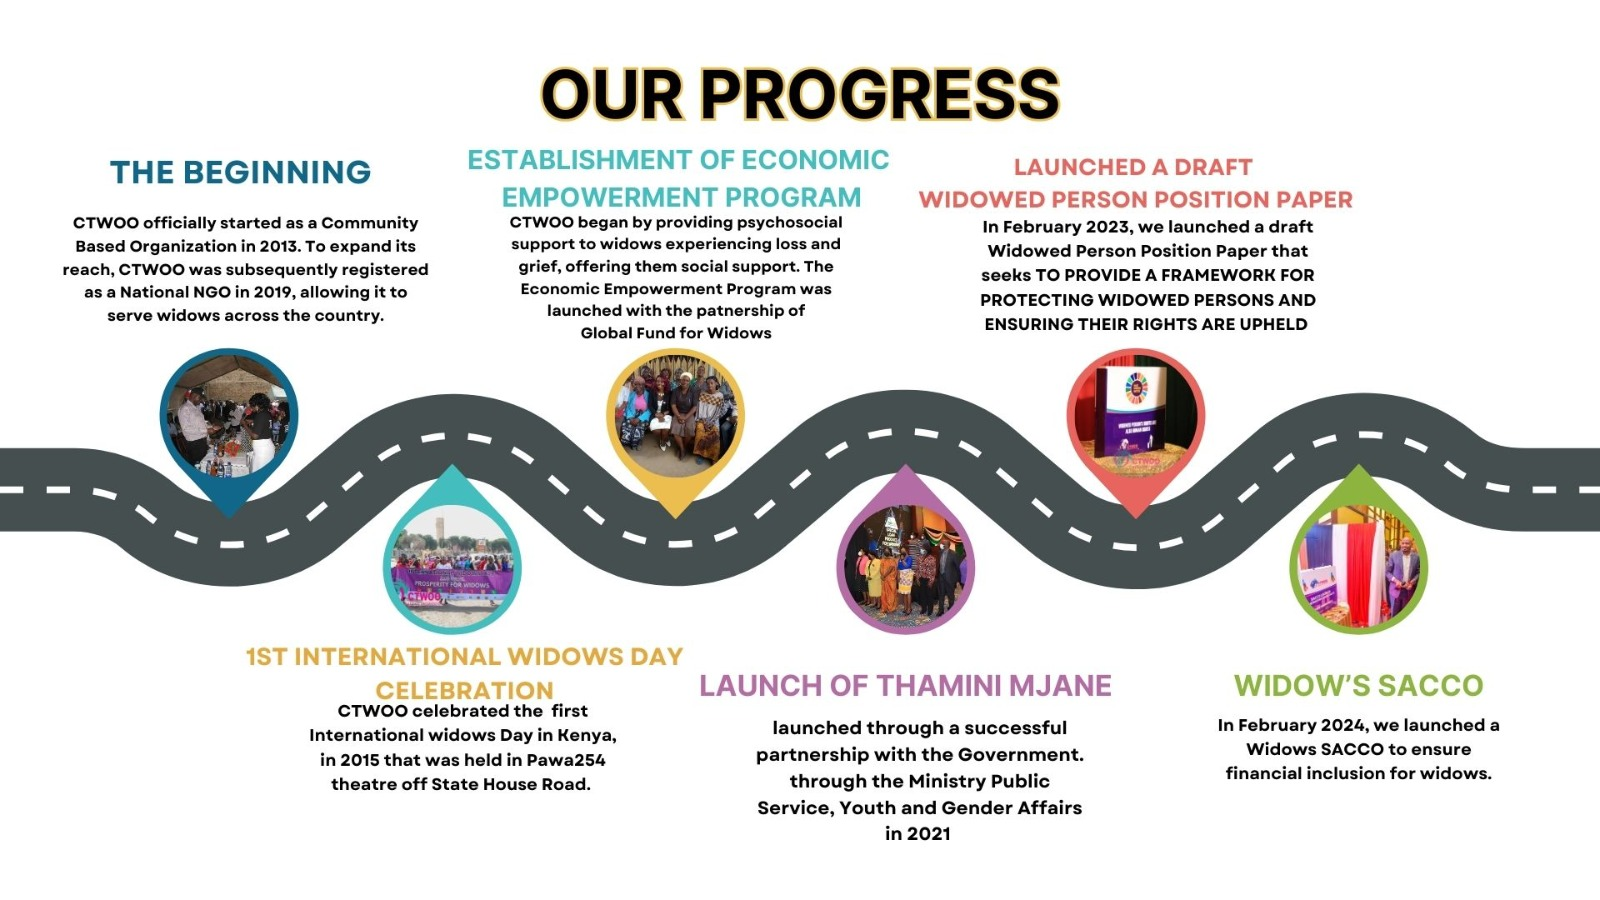
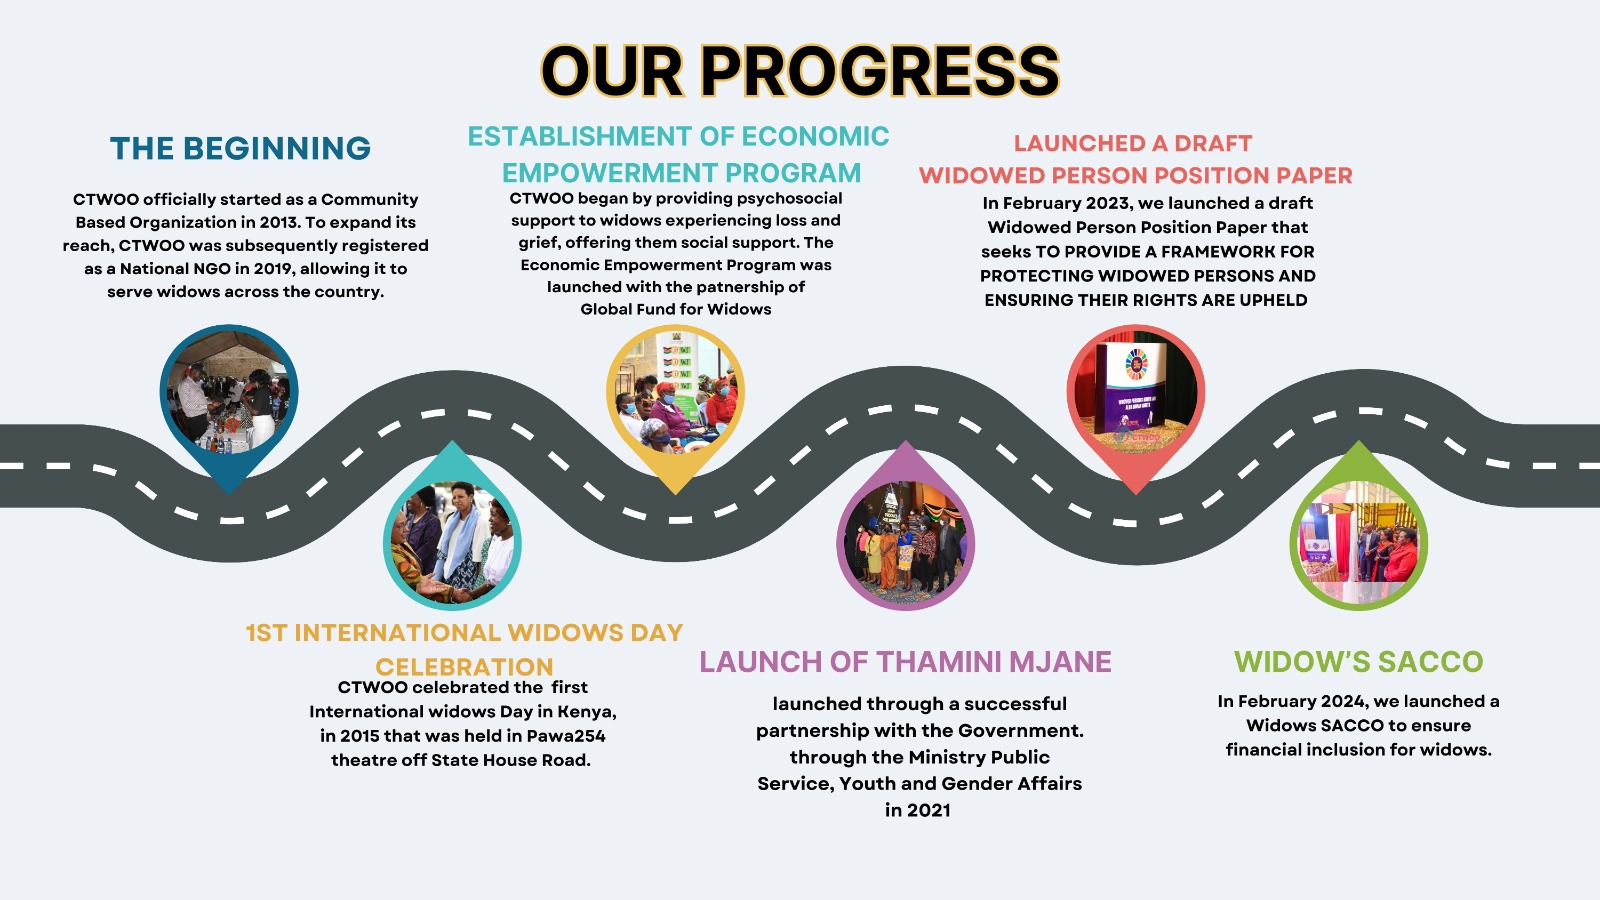
version 1.3 done

Changed region(s): [[0.0, 0.0311, 1.0, 0.9333]]

diff --git a/src/pages/about/screens/ourBoard/OurBoard.js b/src/pages/about/screens/ourBoard/OurBoard.js
@@ -7,6 +7,8 @@ import nkatha from "../../../../assets/img/board/nkatha.jpeg";
 import raphael from "../../../../assets/img/board/raphael.jpeg";
 import peter from "../../../../assets/img/board/peter.jpeg";
 import rashid from "../../../../assets/img/board/rashid.jpeg";
+import richard from "../../../../assets/img/board/richard.jpeg";
+import josphine from "../../../../assets/img/board/josphine.jpeg";
 import EastIcon from "@mui/icons-material/East";
 import KeyboardBackspaceIcon from "@mui/icons-material/KeyboardBackspace";
 
@@ -51,10 +53,24 @@ export default function OurBoard() {
     },
     {
       img: raphael,
-      name: "Raphael Okwama ",
+      name: "Raphael Okwama",
       role: "BOARD MEMBER",
       profile:
         "Create visually compelling designs that effectively convey messages and align with client or project requirements.",
+    },
+    {
+      img: richard,
+      name: "Richard Kuria Wamugu",
+      role: "BOARD MEMBER",
+      profile:
+        "Results-oriented Business Banking Manager with over 10 years of experience in driving business growth, managing customer relationships, and leading teams, specializing in SME and Personal Banking. Proven track record of exceeding targets, optimizing operations, ensuring compliance, and enhancing financial performance while delivering exceptional customer service..",
+    },
+    {
+      img: josphine,
+      name: "Ms. Josphine Maina",
+      role: "BOARD MEMBER",
+      profile:
+        "A driven Food Science and Nutrition graduate with experience in both the financial sector and community mentorship. Josphine Maina combines strong financial literacy with a passion for empowering individuals through her role at Equity Group Foundation, contributing to societal growth.",
     },
   ];
 

diff --git a/src/pages/home/sections/ourProgress/OurProgress.css b/src/pages/home/sections/ourProgress/OurProgress.css
@@ -1,3 +1,8 @@
+.our-progress {
+  background-color: #eff2f6;
+  padding-top: 14vh;
+  padding-bottom: 5vh;
+}
 .our-progress .container {
   background-image: url(../../../../assets/img/progress.jpeg);
   height: 100vh;
@@ -5,6 +10,4 @@
   background-position: center;
   background-size: contain;
   background-repeat: no-repeat;
-  margin-top: 14vh;
-  margin-bottom: 5vh;
 }
